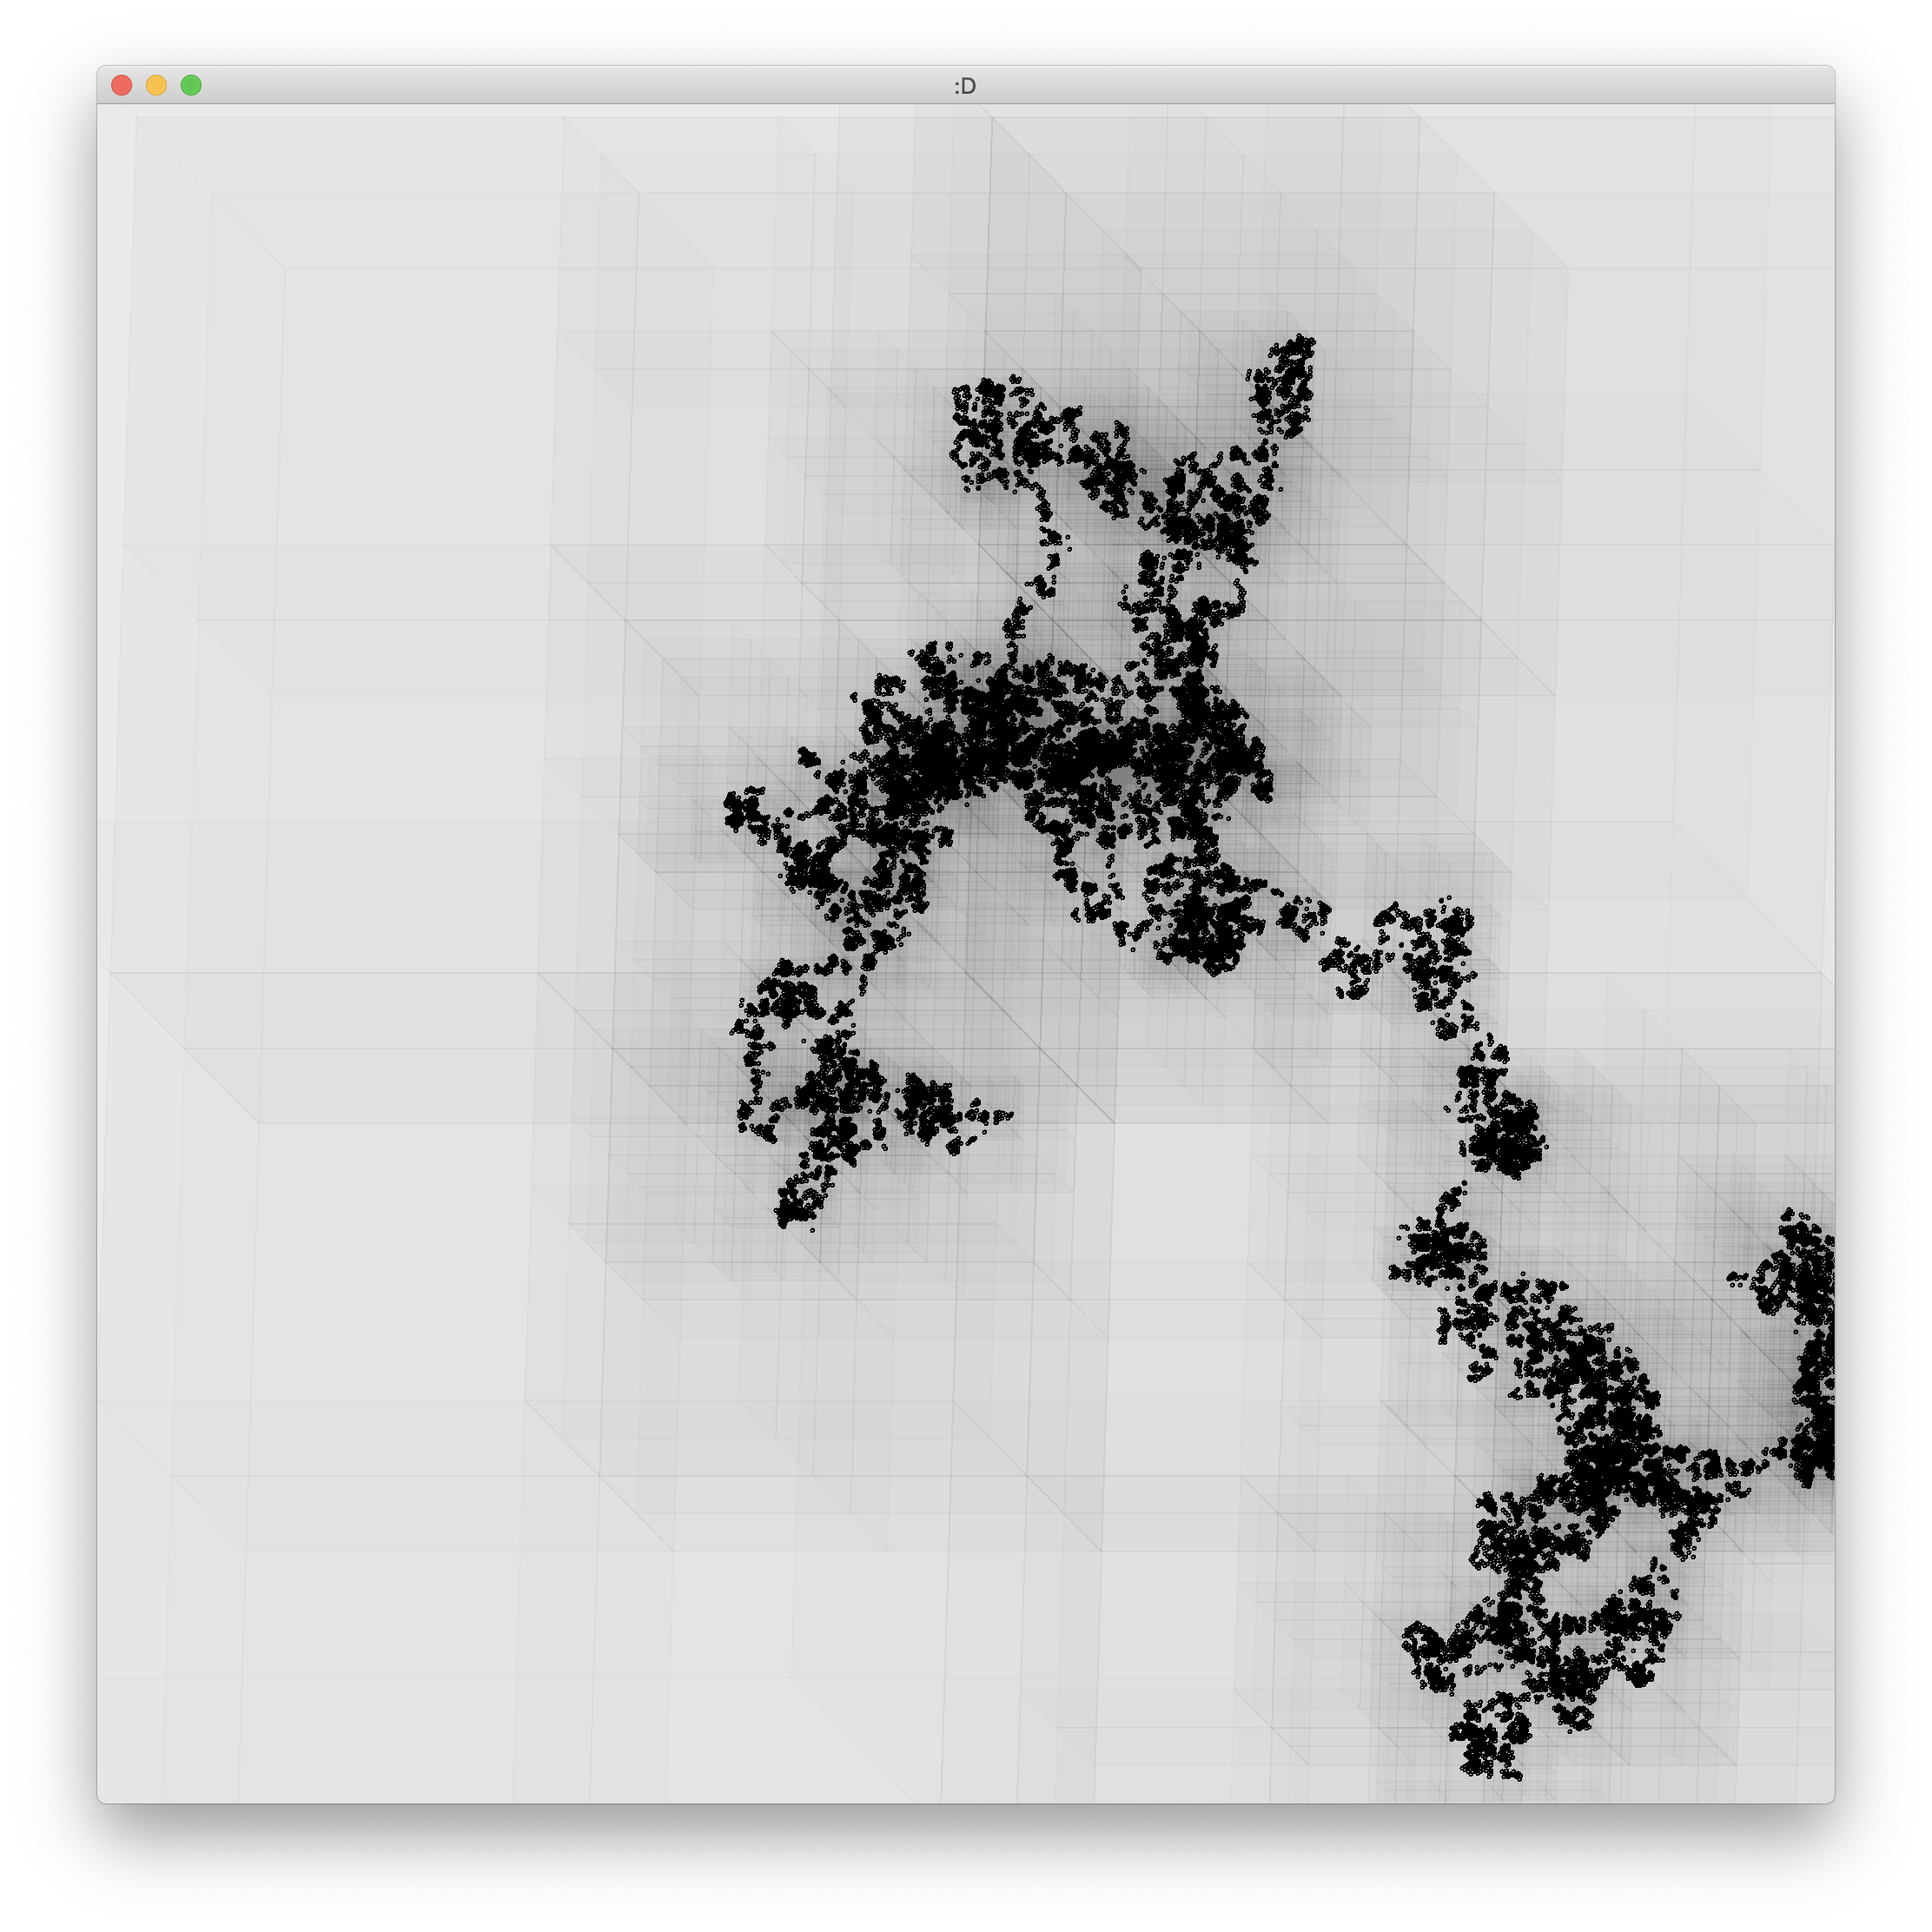
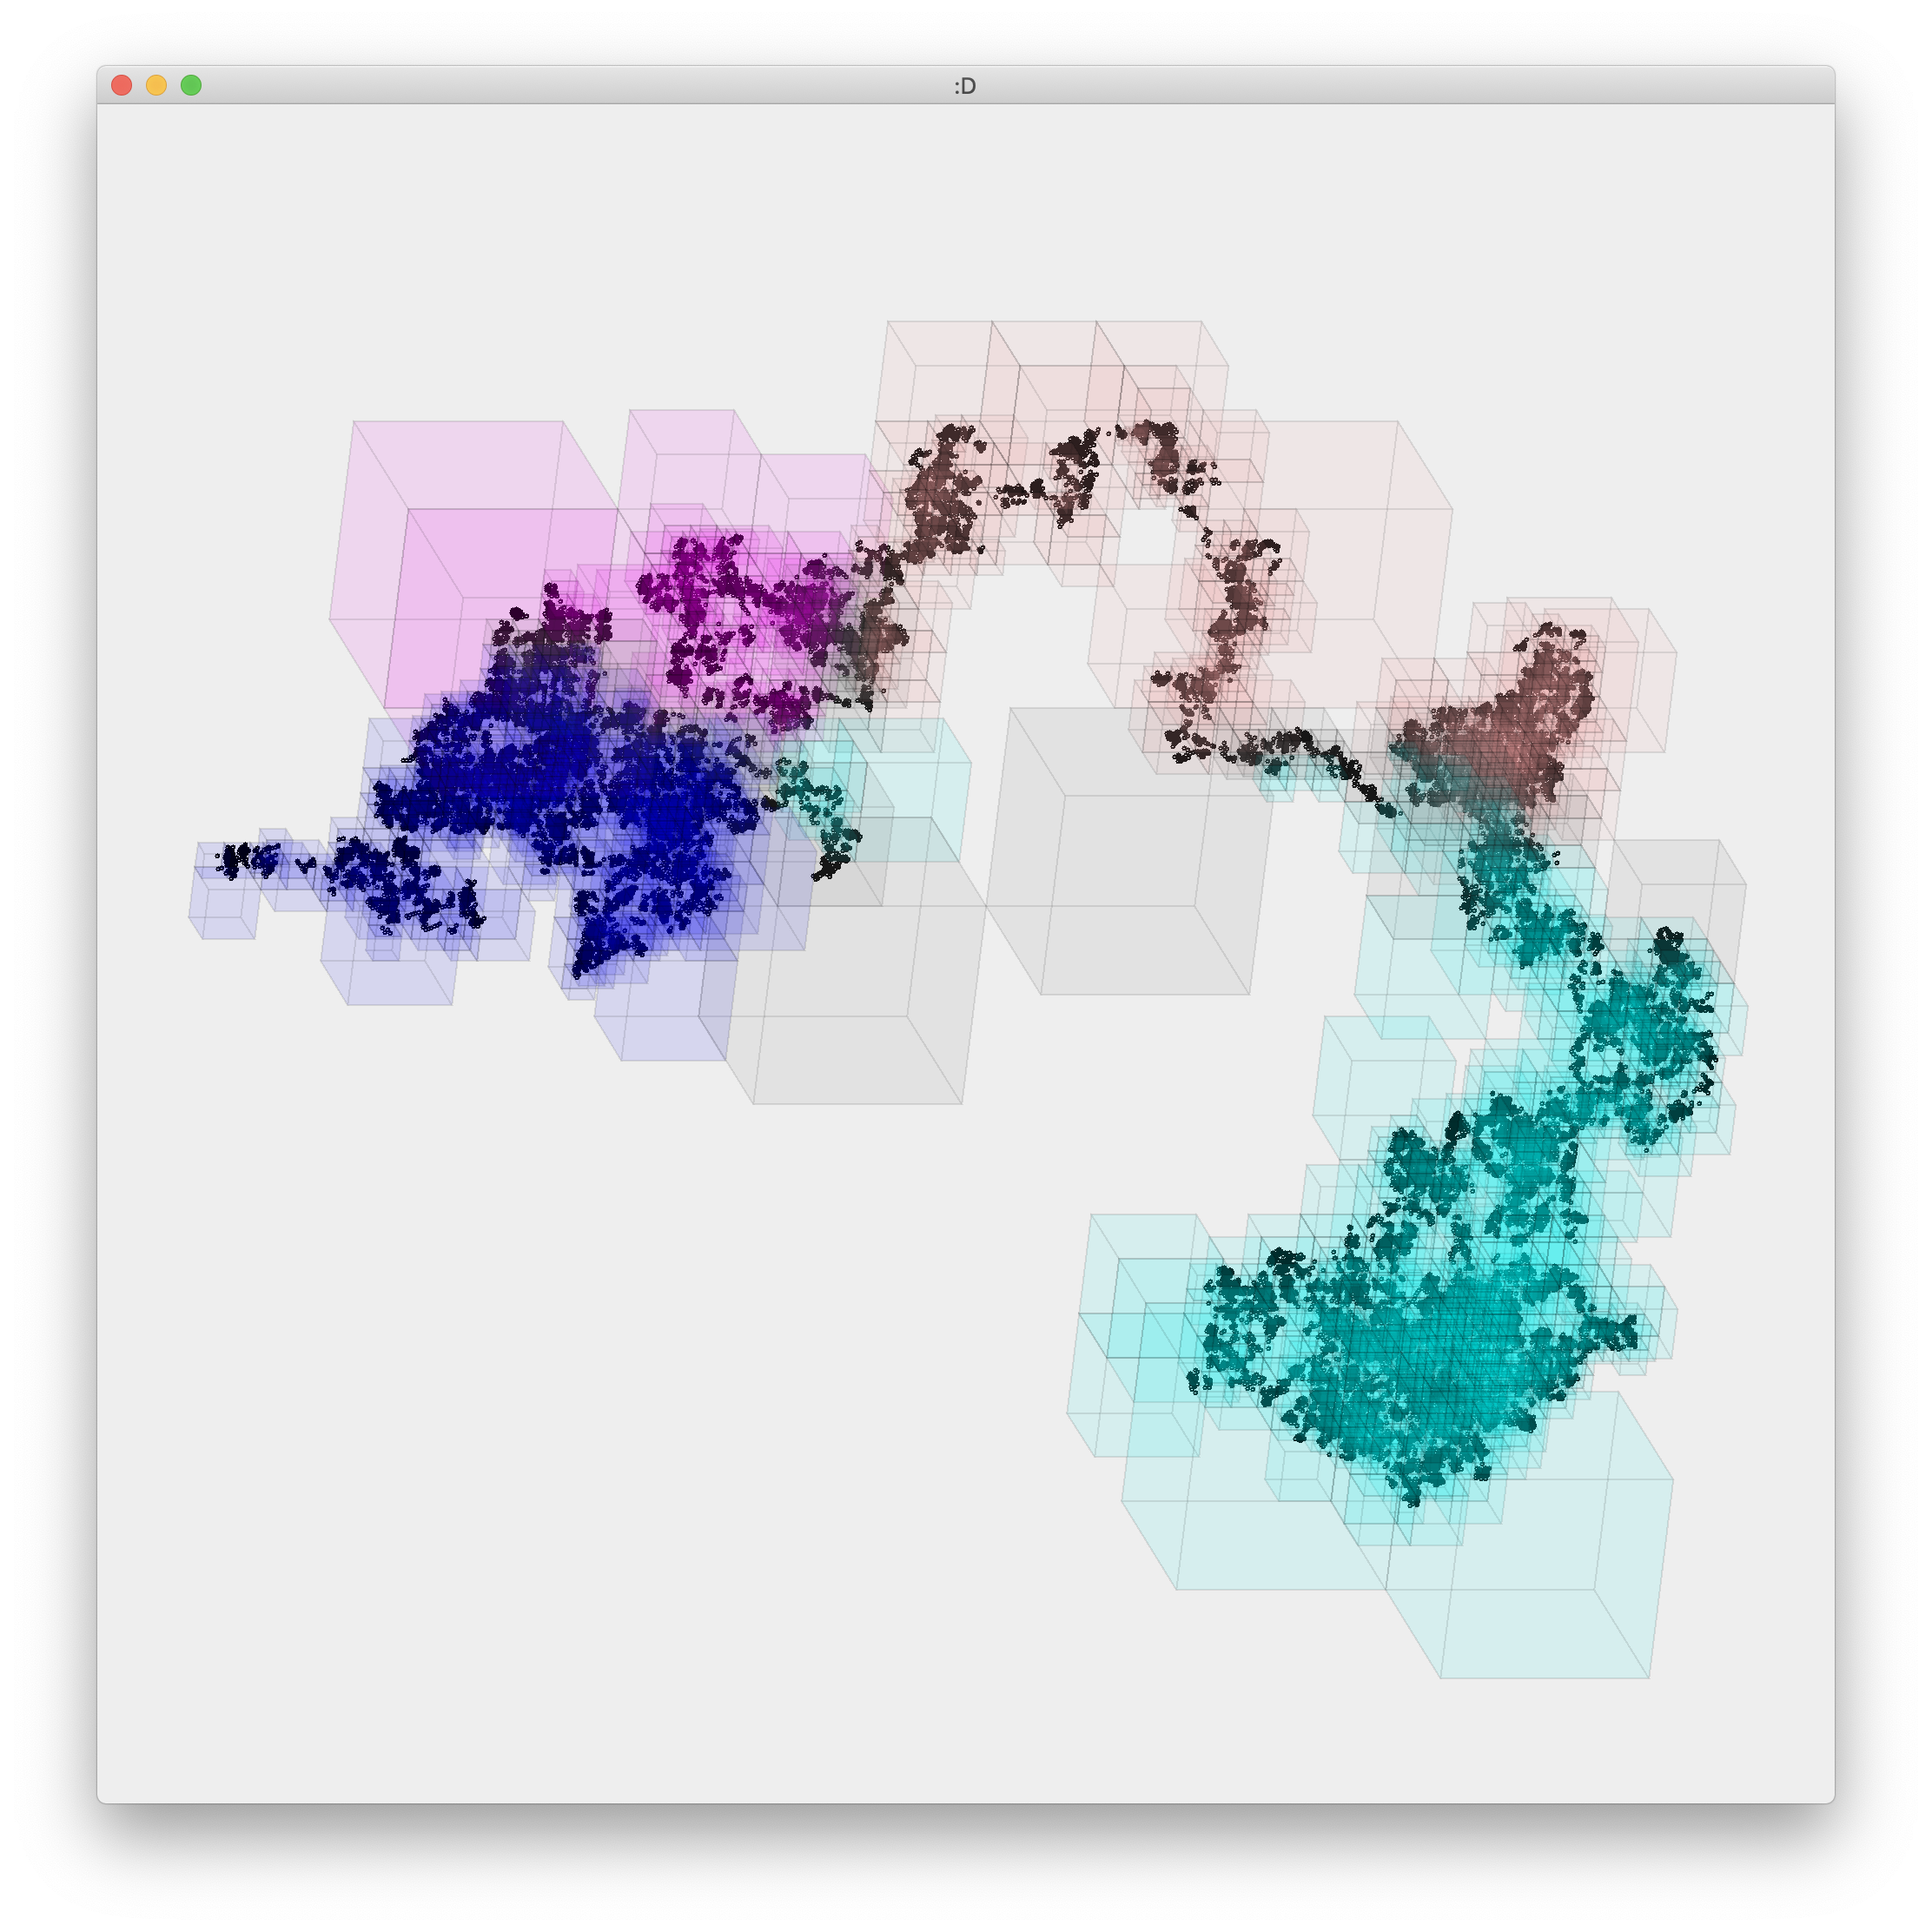
color by octant

diff --git a/spatial/OctTreeMain.java b/spatial/OctTreeMain.java
@@ -11,6 +11,7 @@ import java.awt.geom.Ellipse2D;
 import javax.swing.JFrame;
 import javax.swing.JPanel;
 import java.awt.geom.Path2D;
+import java.awt.Color;
 import java.awt.event.KeyListener;
 import java.awt.event.KeyEvent;
 
@@ -145,7 +146,9 @@ class OctTreeMain {
                                 G.draw(new Ellipse2D.Double(x[0][0] + w / 2, x[1][0] + h / 2, e.getR(), e.getR()));
                             });
                 // octants
-                G.setComposite(AlphaComposite.getInstance(AlphaComposite.SRC_OVER, 0.005f));
+                G.setComposite(AlphaComposite.getInstance(AlphaComposite.SRC_OVER, 0.05f));
+                Color[] colors = new Color[] { Color.GRAY, Color.RED, Color.ORANGE, Color.YELLOW, Color.GREEN,
+                        Color.CYAN, Color.BLUE, Color.PINK, Color.MAGENTA };
                 if (drawOctants)
                     tree.traverse().parallel().forEach(e -> {
                         if (e.elements().size() > 0 || drawEmptyOctants) {
@@ -160,7 +163,9 @@ class OctTreeMain {
                                     path.lineTo(p[0][0] + w / 2, p[1][0] + h / 2);
                                 }
                                 path.closePath();
+                                G.setColor(colors[e.bounds().getPoint().getOctant() + 1]);
                                 G.fill(path);
+                                G.setColor(Color.BLACK);
                                 G.draw(path);
                                 path.reset();
                             }

diff --git a/spatial/Point3D.java b/spatial/Point3D.java
@@ -15,6 +15,27 @@ public class Point3D {
         return new double[][] { { x }, { y }, { z }, { 1 } };
     }
 
+    public int getOctant() {
+        /**/ if (x > 0 && y > 0 && z > 0)
+            return 0;
+        else if (x < 0 && y > 0 && z > 0)
+            return 1;
+        else if (x > 0 && y < 0 && z > 0)
+            return 2;
+        else if (x < 0 && y < 0 && z > 0)
+            return 3;
+        else if (x > 0 && y > 0 && z < 0)
+            return 4;
+        else if (x < 0 && y > 0 && z < 0)
+            return 5;
+        else if (x > 0 && y < 0 && z < 0)
+            return 6;
+        else if (x < 0 && y < 0 && z < 0)
+            return 7;
+        else
+            return -1;
+    }
+
     @Override
     public String toString() {
         return String.format("%s[%f,%f,%f]", this.getClass().getName(), x, y, z);
